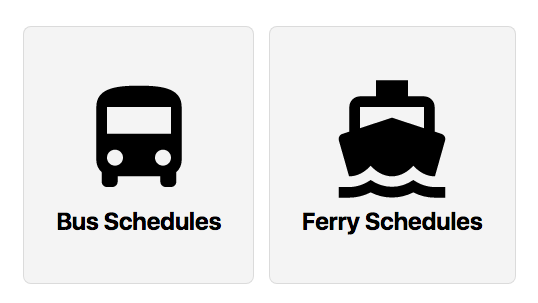
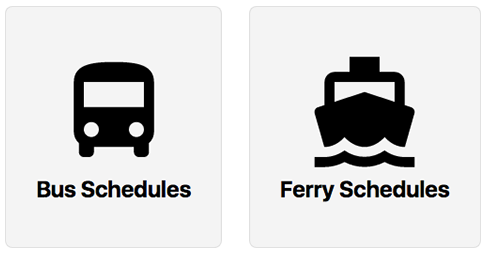
Changing size of preview image

diff --git a/layouts/partials/header.html b/layouts/partials/header.html
@@ -11,6 +11,8 @@
   <meta property="og:description" content="Bermuda bus and ferry schedules 🇧🇲 🚌 ⛴ 🕑">
   <meta property="og:site_name" content="Bermy.xyz">
   <meta property="og:title" content="Bermy.xyz">
+  <meta property="og:image:height" content="255">
+  <meta property="og:image:width" content="486">
   <meta property="og:url" content="https://bermy.xyz/">
 
   <title>Bermy.xyz | {{ .Params.title | default "Bus and Ferry Schedules" }}</title>
